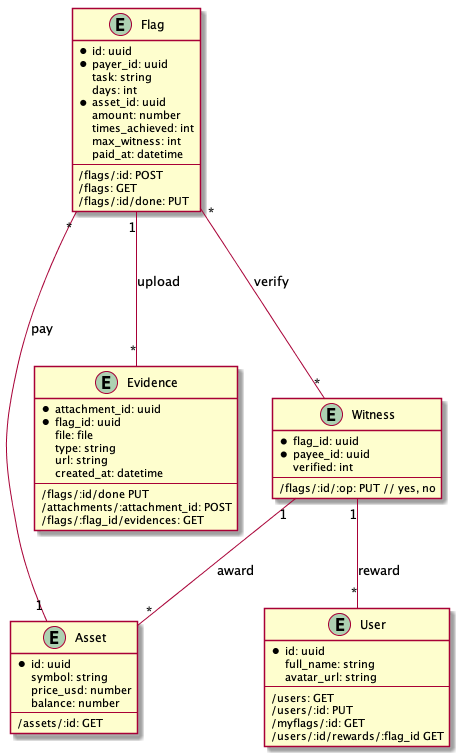
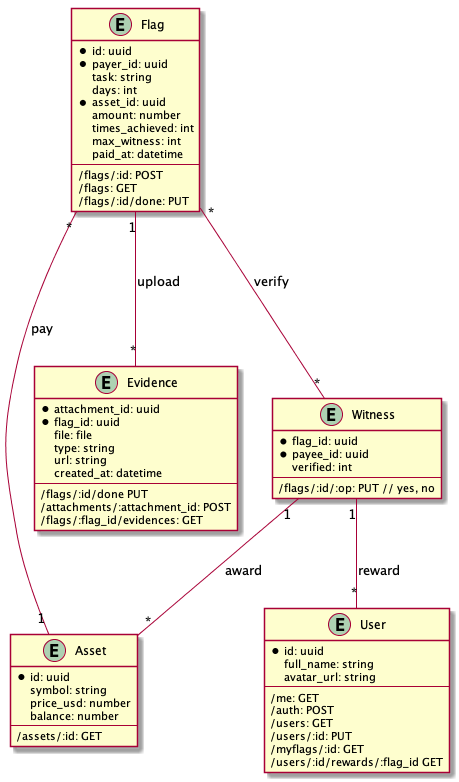
docs: update the API to add /me and /auth*

diff --git a/README.md b/README.md
@@ -46,6 +46,8 @@ The following [RESFTful API](https://github.com/PioneerDev/setflags/blob/feature
  `/myflags/{id}`                      | GET    | No    | list all flags of the user                                                                           
  `/attachments/{attachment_id}`       | POST   | No    | upload evidence                                                                                      
  `/flags/{flag_id}/evidences`         | GET    | No    | list all the evidences since yesterday                                                               
+ `/me`                                | GET    | No    | Get the current user's information                                                                   
+ `/auth`                              | POST   | No    | Upload the oauth token                                                                               
  `/users/{user_id}/rewards/{flag_id}` | GET    | No    | check the total rewards received by the user for the flag                                            
  `/assets/{id}`                       | GET    | No    | get the asset information                                                                            
 <!-- /markdown-swagger -->
